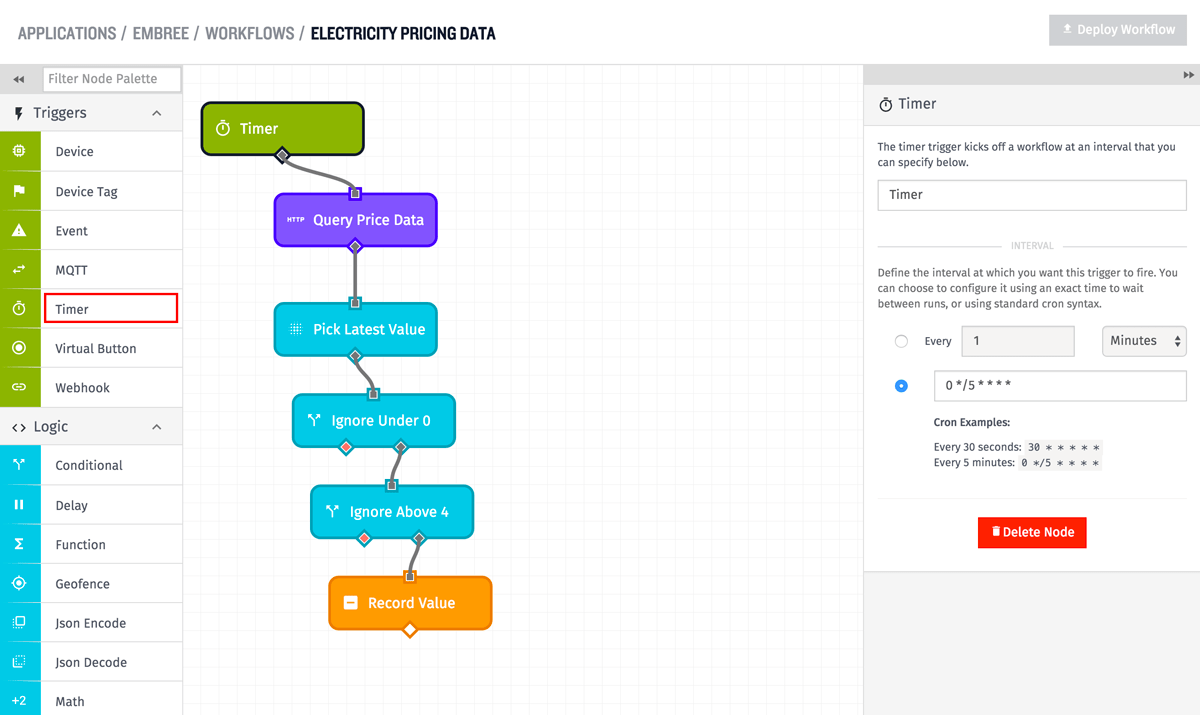
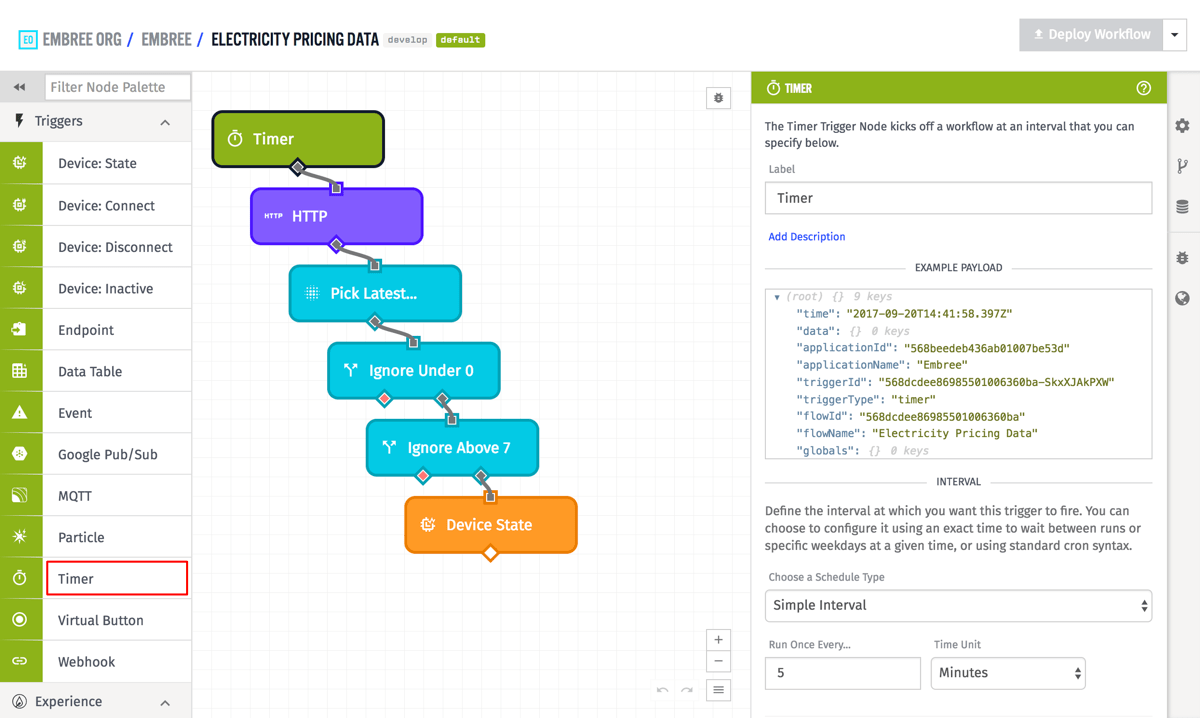
update timer trigger docs with new schedule type

diff --git a/docs/workflows/triggers/timer.md b/docs/workflows/triggers/timer.md
@@ -1,3 +1,5 @@
+description: Learn how to use a Timer Trigger to automatically run a Losant workflow at scheduled intervals.
+
 # Timer Trigger
 
 The timer trigger will trigger a workflow on a scheduled interval.
@@ -6,11 +8,15 @@ The timer trigger will trigger a workflow on a scheduled interval.
 
 ## Configuration
 
-The timer trigger can be configured in two different ways - by a simple interval number and unit, or by a cron configuration string. When configuring a simple interval, the unit can be "Seconds", "Minutes", "Hours", or "Days". The interval can be any positive number that evaluates to at least 1 second and less than 1 year (fractional intervals are allowed). When configuring using a cron string, it must be valid cron syntax. The base cron spec is supported, and in addition the non-standard `/`, `@yearly`, `@monthly`, `@weekly`, `@daily`, and `@hourly` syntax is supported. The non-standard `L`, `W`, `#`, `?`, `@reboot`, and `@annually` syntax is not supported.
+The timer trigger can be configured in three different ways:
+
+* **Simple Interval**: Configure the timer to fire after a repeating period of time. Configured by using an amount and a unit - the unit can be "Seconds", "Minutes", "Hours", or "Days". The interval can be any positive number that evaluates to at least 1 second and less than 1 year (fractional intervals are allowed).
+* **Simple Schedule**: Configure the timer to fire based on a simple daily schedule. Select the days of the week, and the time of day that the timer should fire.
+* **Advanced**: Configure the timer to fire using a valid cron string. The base cron spec is supported, and in addition the non-standard `/`, `@yearly`, `@monthly`, `@weekly`, `@daily`, and `@hourly` syntax is supported. The non-standard `L`, `W`, `#`, `?`, `@reboot`, and `@annually` syntax is not supported.
 
 ![Timer Trigger Config](/images/workflows/triggers/timer-trigger-config.png "Timer Trigger Config")
 
-In the above example, the workflow will be triggered every 5 minutes.
+In the above example, the timer is configured using `Simple Interval`, and is set so that the timer will fire every 5 minutes.
 
 ## Payload
 
@@ -19,7 +25,7 @@ Unlike most other triggers, there is no special data included in the payload for
 ```json
 {
   "time": <time of the trigger>,
-  "data": <the mqtt message payload, as a string>,
+  "data": {},
   "applicationId": <id of the current application>,
   "applicationName": <name of the current application>,
   "triggerId": <id of the timer trigger>,
